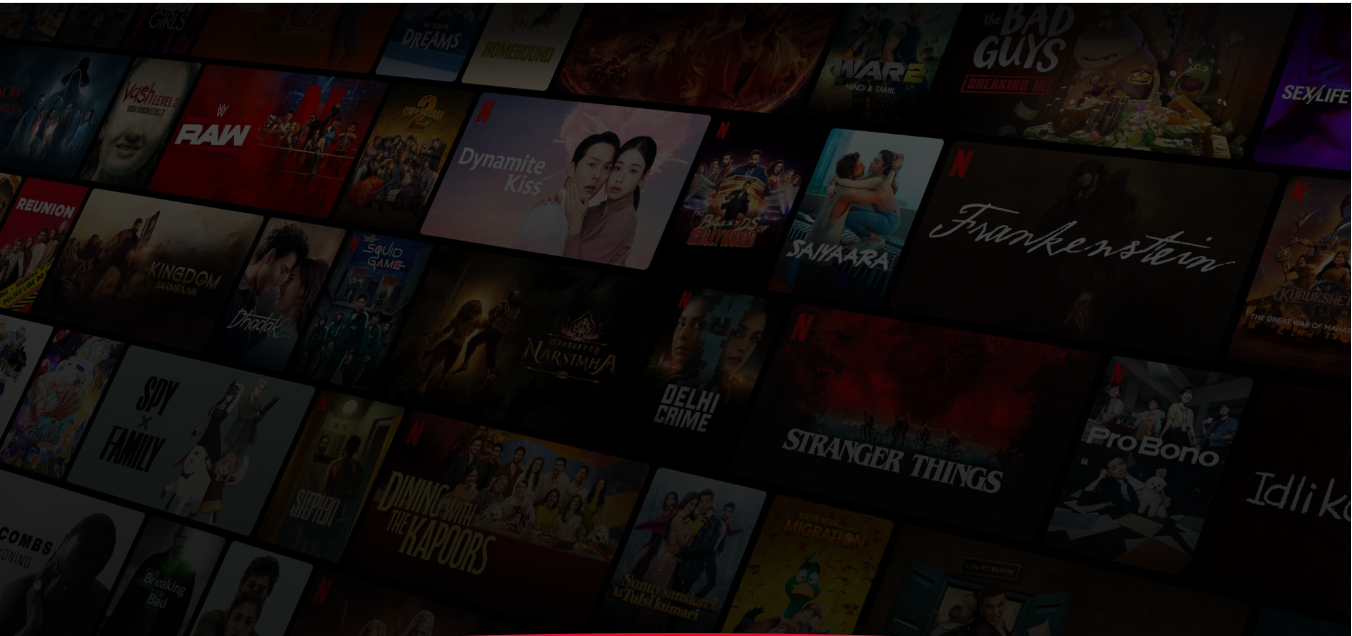
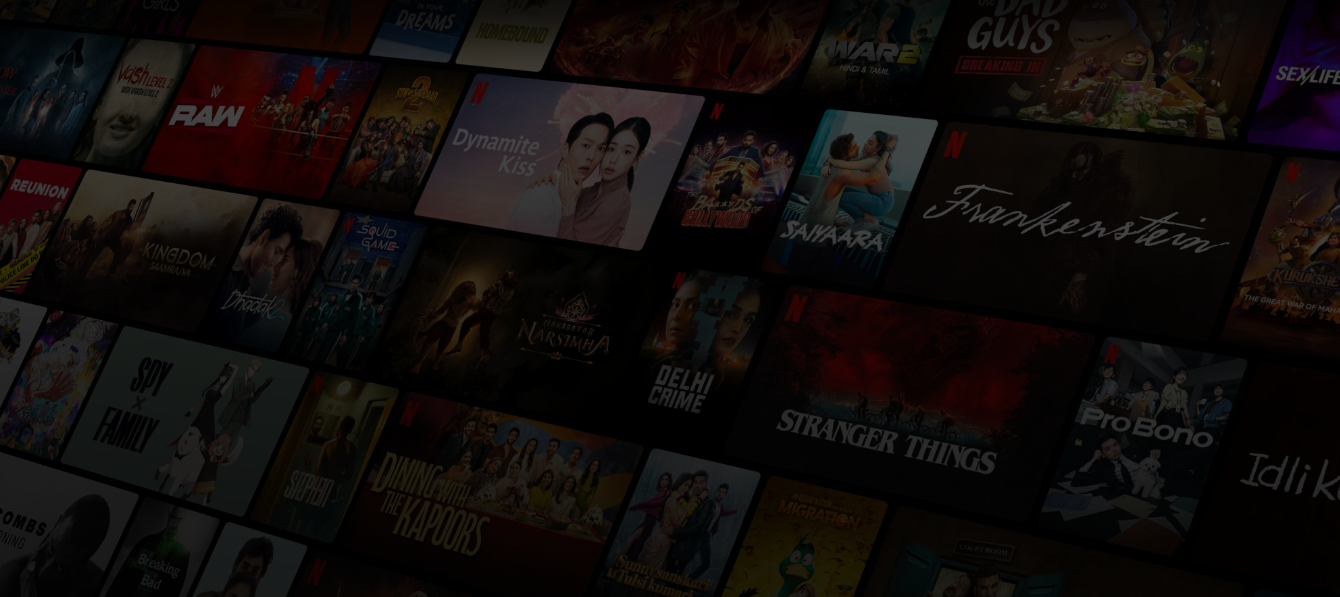
feat:concave curve

diff --git a/style.css b/style.css
@@ -30,6 +30,7 @@ body{
             #000 100%
         ),
         url("images/header.PNG") center / cover no-repeat;
+    overflow:hidden;
 }
 
 .nav{
@@ -72,6 +73,7 @@ body{
     align-items: center;
     justify-content: center;
     padding:3rem 1.5rem 5rem;
+    z-index:1;
 }
 
 
@@ -159,4 +161,23 @@ body{
     font-size: 0.95rem;
     color:var(--text-gray);
 }
+
+
+/* Concave Curve */
+.header::after{
+    content:"";
+    position:absolute;
+    left:50%;
+    bottom:0;                 /* sit on the bottom edge */
+    transform:translateX(-50%);
+    width:140%;
+    height:100px;
+    background:
+        radial-gradient(ellipse at bottom,
+            rgba(255,15,79,0.9) 0%,   /* bright pink */
+            #e50914 40%,             /* Netflix red */
+            transparent 70%);
+    z-index: 0;
+}
+
 

diff --git a/index.html b/index.html
@@ -35,6 +35,12 @@
         </section>
 
     </header>
+
+    <main>
+        <section class="trending">
+            <h2>Trending Now</h2>
+        </section>
+    </main>
     
 </body>
 </html>
